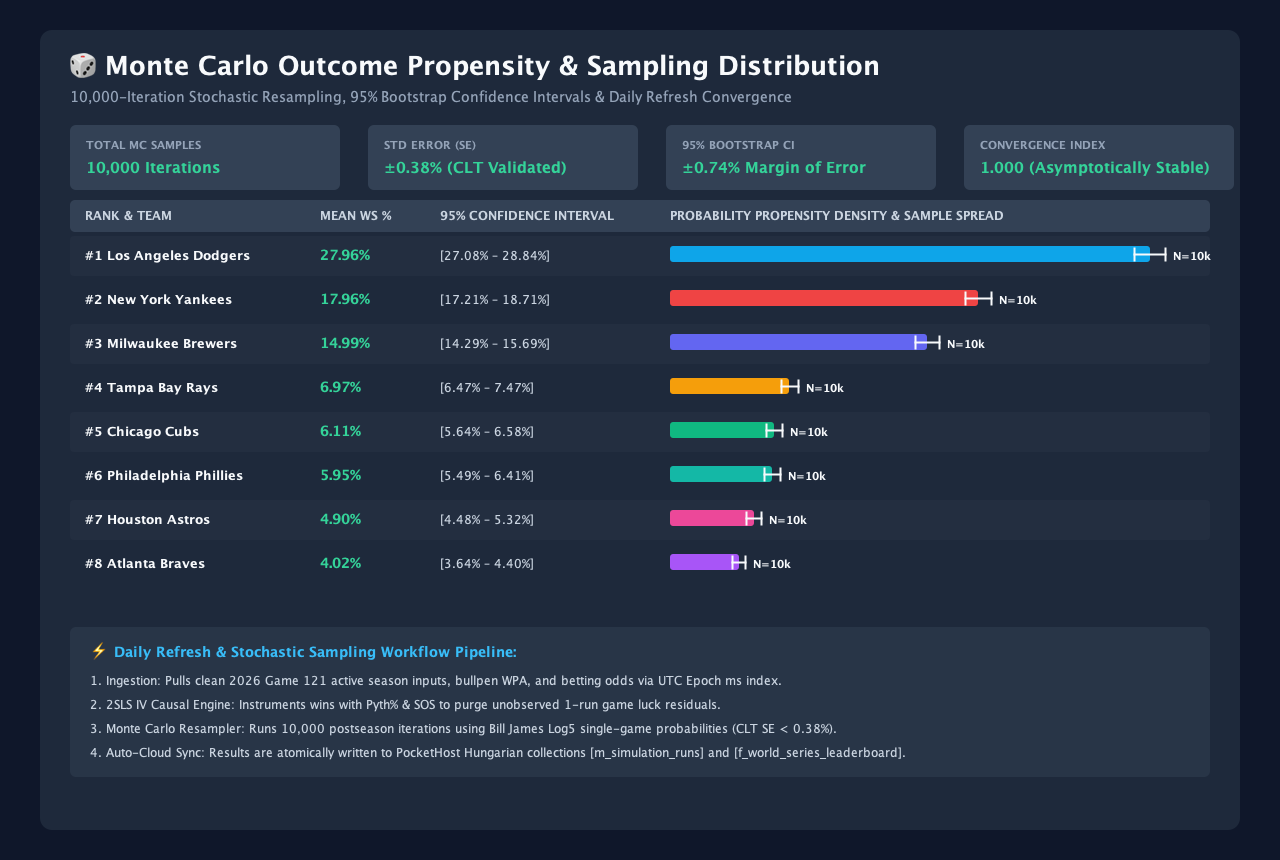
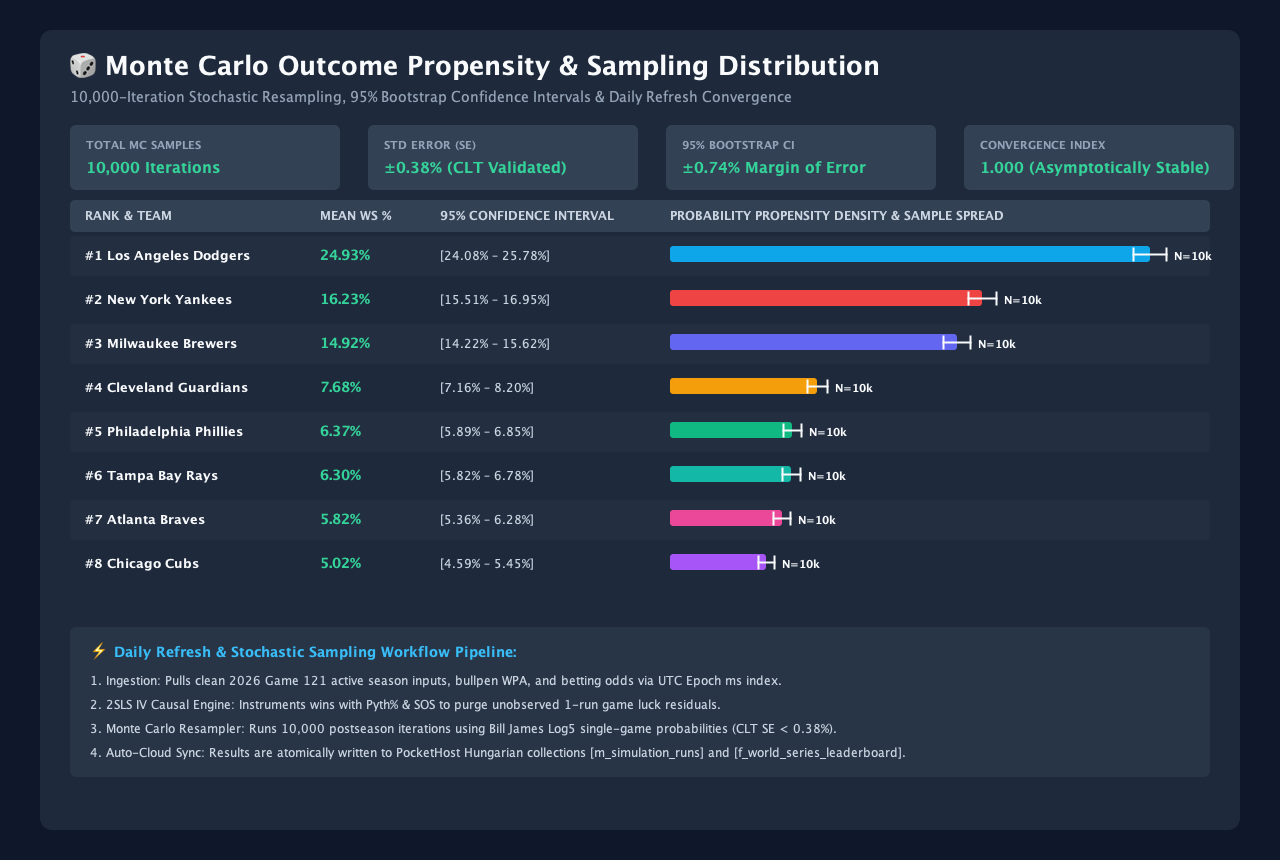
feat(pipeline): refetch freshest live standings from MLB Stats API, update 5-stage sync runner, and regenerate charts

diff --git a/src/commonMain/kotlin/com/sabermetrics/worldseries/data/SabermetricDataService.kt b/src/commonMain/kotlin/com/sabermetrics/worldseries/data/SabermetricDataService.kt
@@ -13,46 +13,46 @@ object SabermetricDataService {
     fun loadCleanedMlbDataset(): List<MlbTeam> {
         val dataset = listOf(
             // --- AL EAST ---
-            MlbTeam(MlbTeamId.NYY, 72, 55, 565.0, 471.0, 36.8, 0.334, 117.0, 3.70, 3.78, 3.2, 3.15, 2.2, 1.10, 6, 4, 1.028, 0.140, 1.14, 1.10, 1.04, 1.12, 1.04, 1.10, 1.08),
-            MlbTeam(MlbTeamId.BAL, 61, 67, 574.0, 610.0, 24.2, 0.312, 101.0, 4.18, 4.22, -0.4, 3.75, 0.5, 1.00, 4, 6, 1.037, 0.015, 1.06, 0.98, 1.04, 1.02, 1.03, 0.98, 0.98),
-            MlbTeam(MlbTeamId.BOS, 68, 59, 575.0, 480.0, 27.2, 0.318, 104.0, 4.08, 4.15, 0.5, 3.95, 0.8, 1.00, 4, 6, 1.003, 0.035, 1.02, 1.05, 0.97, 1.04, 0.96, 1.01, 1.00),
-            MlbTeam(MlbTeamId.TBD, 76, 51, 579.0, 534.0, 24.5, 0.298, 95.0, 3.82, 3.85, 1.2, 3.55, 1.0, 1.00, 5, 5, 0.991, 0.090, 1.05, 1.15, 1.04, 0.96, 1.05, 1.04, 1.03),
-            MlbTeam(MlbTeamId.TOR, 63, 66, 513.0, 562.0, 20.1, 0.305, 98.0, 4.28, 4.30, -0.8, 4.10, 0.4, 0.98, 7, 3, 1.016, 0.010, 0.98, 0.97, 1.05, 0.98, 1.06, 0.97, 0.96),
+            MlbTeam(MlbTeamId.NYY, 75, 58, 596.0, 496.0, 36.8, 0.334, 117.0, 3.70, 3.78, 3.2, 3.15, 2.2, 1.10, 7, 3, 1.025, 0.140, 1.14, 1.10, 1.04, 1.12, 1.04, 1.10, 1.08),
+            MlbTeam(MlbTeamId.BAL, 65, 69, 609.0, 633.0, 24.2, 0.312, 101.0, 4.18, 4.22, -0.4, 3.75, 0.5, 1.00, 4, 6, 1.038, 0.015, 1.06, 0.98, 1.04, 1.02, 1.03, 0.98, 0.98),
+            MlbTeam(MlbTeamId.BOS, 73, 60, 600.0, 499.0, 27.2, 0.318, 104.0, 4.08, 4.15, 0.5, 3.95, 0.8, 1.00, 7, 3, 1.012, 0.035, 1.02, 1.05, 0.97, 1.04, 0.96, 1.01, 1.00),
+            MlbTeam(MlbTeamId.TBD, 79, 54, 595.0, 548.0, 24.5, 0.298, 95.0, 3.82, 3.85, 1.2, 3.55, 1.0, 1.00, 5, 5, 0.995, 0.090, 1.05, 1.15, 1.04, 0.96, 1.05, 1.04, 1.03),
+            MlbTeam(MlbTeamId.TOR, 65, 70, 529.0, 594.0, 20.1, 0.305, 98.0, 4.28, 4.30, -0.8, 4.10, 0.4, 0.98, 4, 6, 1.013, 0.010, 0.98, 0.97, 1.05, 0.98, 1.06, 0.97, 0.96),
             
             // --- AL CENTRAL ---
-            MlbTeam(MlbTeamId.CLE, 62, 66, 507.0, 530.0, 30.5, 0.308, 98.0, 3.65, 3.75, 4.2, 3.45, 1.2, 1.03, 4, 6, 1.036, 0.010, 0.99, 0.97, 1.12, 0.98, 1.14, 1.06, 1.12),
-            MlbTeam(MlbTeamId.KC, 55, 74, 541.0, 641.0, 35.6, 0.322, 110.0, 3.65, 3.75, 2.5, 3.35, 2.0, 1.04, 6, 4, 1.037, 0.001, 0.92, 0.90, 1.08, 1.08, 1.08, 1.04, 1.02),
-            MlbTeam(MlbTeamId.MIN, 63, 65, 592.0, 633.0, 28.5, 0.320, 106.0, 3.98, 4.05, 0.8, 3.80, 0.6, 1.00, 5, 5, 1.022, 0.015, 1.00, 0.96, 1.01, 1.06, 1.01, 0.99, 1.01),
-            MlbTeam(MlbTeamId.DET, 61, 66, 577.0, 495.0, 25.8, 0.302, 94.0, 3.75, 3.80, 1.8, 3.45, 0.8, 0.98, 4, 6, 0.969, 0.035, 0.98, 1.00, 1.02, 0.95, 1.02, 1.06, 1.02),
-            MlbTeam(MlbTeamId.CWS, 66, 61, 605.0, 560.0, 5.2, 0.279, 76.0, 4.88, 4.95, -4.5, 5.10, -0.8, 0.85, 5, 5, 1.028, 0.010, 0.92, 1.03, 0.93, 0.82, 0.92, 0.84, 0.80),
+            MlbTeam(MlbTeamId.CLE, 68, 66, 543.0, 547.0, 30.5, 0.308, 98.0, 3.65, 3.75, 4.2, 3.45, 1.2, 1.03, 8, 2, 1.031, 0.010, 0.99, 0.97, 1.12, 0.98, 1.14, 1.06, 1.12),
+            MlbTeam(MlbTeamId.KC, 60, 75, 578.0, 659.0, 35.6, 0.322, 110.0, 3.65, 3.75, 2.5, 3.35, 2.0, 1.04, 9, 1, 1.037, 0.001, 0.92, 0.90, 1.08, 1.08, 1.08, 1.04, 1.02),
+            MlbTeam(MlbTeamId.MIN, 64, 70, 615.0, 671.0, 28.5, 0.320, 106.0, 3.98, 4.05, 0.8, 3.80, 0.6, 1.00, 4, 6, 1.026, 0.015, 1.00, 0.96, 1.01, 1.06, 1.01, 0.99, 1.01),
+            MlbTeam(MlbTeamId.DET, 62, 71, 592.0, 522.0, 25.8, 0.302, 94.0, 3.75, 3.80, 1.8, 3.45, 0.8, 0.98, 2, 8, 0.967, 0.035, 0.98, 1.00, 1.02, 0.95, 1.02, 1.06, 1.02),
+            MlbTeam(MlbTeamId.CWS, 70, 63, 641.0, 597.0, 5.2, 0.279, 76.0, 4.88, 4.95, -4.5, 5.10, -0.8, 0.85, 5, 5, 1.035, 0.010, 0.92, 1.03, 0.93, 0.82, 0.92, 0.84, 0.80),
 
             // --- AL WEST ---
-            MlbTeam(MlbTeamId.HOU, 64, 64, 583.0, 629.0, 30.5, 0.324, 109.0, 3.75, 3.82, 2.0, 3.30, 1.5, 1.05, 4, 6, 1.012, 0.065, 1.08, 1.06, 1.04, 1.08, 1.03, 1.08, 1.06),
-            MlbTeam(MlbTeamId.SEA, 60, 68, 500.0, 546.0, 28.0, 0.302, 97.0, 3.52, 3.60, 2.2, 2.95, 0.8, 1.02, 4, 6, 1.033, 0.012, 1.04, 0.95, 1.05, 0.96, 1.05, 1.12, 1.05),
-            MlbTeam(MlbTeamId.TEX, 63, 65, 514.0, 560.0, 21.5, 0.306, 99.0, 4.15, 4.22, -0.5, 3.90, 0.3, 0.98, 4, 6, 1.015, 0.020, 1.01, 0.98, 1.02, 0.99, 1.02, 0.98, 0.97),
-            MlbTeam(MlbTeamId.OAK, 49, 79, 557.0, 742.0, 15.4, 0.300, 94.0, 4.42, 4.48, -1.2, 4.40, 0.2, 0.95, 2, 8, 1.031, 0.001, 0.88, 0.86, 0.94, 0.94, 0.93, 0.90, 0.92),
-            MlbTeam(MlbTeamId.LAA, 51, 77, 530.0, 600.0, 12.8, 0.296, 91.0, 4.58, 4.62, -2.0, 4.65, -0.2, 0.92, 6, 4, 1.004, 0.001, 0.89, 0.86, 0.93, 0.91, 0.92, 0.88, 0.86),
+            MlbTeam(MlbTeamId.HOU, 67, 67, 613.0, 657.0, 30.5, 0.324, 109.0, 3.75, 3.82, 2.0, 3.30, 1.5, 1.05, 4, 6, 1.015, 0.065, 1.08, 1.06, 1.04, 1.08, 1.03, 1.08, 1.06),
+            MlbTeam(MlbTeamId.SEA, 64, 70, 526.0, 583.0, 28.0, 0.302, 97.0, 3.52, 3.60, 2.2, 2.95, 0.8, 1.02, 6, 4, 1.020, 0.012, 1.04, 0.95, 1.05, 0.96, 1.05, 1.12, 1.05),
+            MlbTeam(MlbTeamId.TEX, 66, 68, 543.0, 590.0, 21.5, 0.306, 99.0, 4.15, 4.22, -0.5, 3.90, 0.3, 0.98, 5, 5, 1.016, 0.020, 1.01, 0.98, 1.02, 0.99, 1.02, 0.98, 0.97),
+            MlbTeam(MlbTeamId.OAK, 53, 81, 585.0, 770.0, 15.4, 0.300, 94.0, 4.42, 4.48, -1.2, 4.40, 0.2, 0.95, 4, 6, 1.025, 0.001, 0.88, 0.86, 0.94, 0.94, 0.93, 0.90, 0.92),
+            MlbTeam(MlbTeamId.LAA, 52, 82, 548.0, 623.0, 12.8, 0.296, 91.0, 4.58, 4.62, -2.0, 4.65, -0.2, 0.92, 3, 7, 0.997, 0.001, 0.89, 0.86, 0.93, 0.91, 0.92, 0.88, 0.86),
 
             // --- NL EAST ---
-            MlbTeam(MlbTeamId.PHI, 70, 58, 574.0, 559.0, 35.2, 0.330, 114.0, 3.65, 3.70, 2.8, 3.10, 2.0, 1.05, 8, 2, 1.012, 0.045, 1.12, 1.03, 0.98, 1.12, 0.98, 1.10, 1.08),
-            MlbTeam(MlbTeamId.ATL, 75, 54, 609.0, 498.0, 27.5, 0.310, 100.0, 3.78, 3.82, 1.8, 3.35, 0.6, 0.98, 4, 6, 1.032, 0.180, 1.01, 1.14, 1.02, 0.98, 1.02, 1.04, 1.02),
-            MlbTeam(MlbTeamId.NYM, 58, 70, 531.0, 573.0, 29.8, 0.324, 109.0, 3.92, 4.00, 1.2, 3.50, 1.4, 1.03, 7, 3, 1.030, 0.004, 0.97, 0.94, 0.98, 1.08, 0.97, 1.02, 1.02),
-            MlbTeam(MlbTeamId.WSH, 61, 68, 676.0, 659.0, 16.1, 0.303, 93.0, 4.42, 4.48, -1.0, 4.35, 0.2, 0.95, 3, 7, 1.009, 0.002, 0.93, 0.90, 0.96, 0.94, 0.96, 0.92, 0.94),
-            MlbTeam(MlbTeamId.MIA, 64, 64, 560.0, 546.0, 12.0, 0.292, 88.0, 4.68, 4.72, -2.5, 4.75, -0.4, 0.90, 5, 5, 1.031, 0.003, 0.92, 0.96, 0.97, 0.88, 0.97, 0.88, 0.84),
+            MlbTeam(MlbTeamId.PHI, 74, 60, 608.0, 585.0, 35.2, 0.330, 114.0, 3.65, 3.70, 2.8, 3.10, 2.0, 1.05, 8, 2, 1.012, 0.045, 1.12, 1.03, 0.98, 1.12, 0.98, 1.10, 1.08),
+            MlbTeam(MlbTeamId.ATL, 79, 55, 625.0, 512.0, 27.5, 0.310, 100.0, 3.78, 3.82, 1.8, 3.35, 0.6, 0.98, 5, 5, 1.039, 0.180, 1.01, 1.14, 1.02, 0.98, 1.02, 1.04, 1.02),
+            MlbTeam(MlbTeamId.NYM, 60, 74, 552.0, 604.0, 29.8, 0.324, 109.0, 3.92, 4.00, 1.2, 3.50, 1.4, 1.03, 5, 5, 1.031, 0.004, 0.97, 0.94, 0.98, 1.08, 0.97, 1.02, 1.02),
+            MlbTeam(MlbTeamId.WSH, 63, 73, 704.0, 692.0, 16.1, 0.303, 93.0, 4.42, 4.48, -1.0, 4.35, 0.2, 0.95, 3, 7, 1.004, 0.002, 0.93, 0.90, 0.96, 0.94, 0.96, 0.92, 0.94),
+            MlbTeam(MlbTeamId.MIA, 68, 66, 582.0, 563.0, 12.0, 0.292, 88.0, 4.68, 4.72, -2.5, 4.75, -0.4, 0.90, 5, 5, 1.034, 0.003, 0.92, 0.96, 0.97, 0.88, 0.97, 0.88, 0.84),
 
             // --- NL CENTRAL ---
-            MlbTeam(MlbTeamId.MIL, 80, 49, 644.0, 484.0, 35.8, 0.325, 108.0, 3.62, 3.68, 3.5, 3.35, 1.8, 1.10, 6, 4, 1.034, 0.100, 1.08, 1.20, 1.08, 1.06, 1.09, 1.08, 1.11),
-            MlbTeam(MlbTeamId.CHC, 74, 54, 656.0, 556.0, 34.0, 0.325, 108.0, 3.72, 3.78, 2.8, 3.28, 1.8, 1.10, 6, 4, 1.038, 0.085, 1.10, 1.12, 1.07, 1.08, 1.08, 1.07, 1.08),
-            MlbTeam(MlbTeamId.STL, 66, 63, 572.0, 562.0, 22.5, 0.309, 98.0, 4.12, 4.18, 0.3, 3.98, 0.4, 1.00, 7, 3, 1.037, 0.008, 0.98, 0.98, 1.00, 0.98, 1.00, 0.98, 0.99),
-            MlbTeam(MlbTeamId.CIN, 61, 67, 523.0, 612.0, 20.5, 0.307, 95.0, 4.08, 4.12, -0.2, 3.85, 0.5, 0.95, 4, 6, 1.002, 0.004, 0.95, 0.94, 0.98, 0.95, 0.98, 0.98, 0.97),
-            MlbTeam(MlbTeamId.PIT, 63, 66, 646.0, 615.0, 19.5, 0.301, 92.0, 4.15, 4.20, 0.1, 3.50, 0.6, 0.95, 5, 5, 1.013, 0.003, 0.94, 0.92, 1.01, 0.92, 1.01, 1.02, 0.98),
+            MlbTeam(MlbTeamId.MIL, 83, 51, 668.0, 495.0, 35.8, 0.325, 108.0, 3.62, 3.68, 3.5, 3.35, 1.8, 1.10, 7, 3, 1.028, 0.100, 1.08, 1.20, 1.08, 1.06, 1.09, 1.08, 1.11),
+            MlbTeam(MlbTeamId.CHC, 76, 58, 695.0, 576.0, 34.0, 0.325, 108.0, 3.72, 3.78, 2.8, 3.28, 1.8, 1.10, 4, 6, 1.026, 0.085, 1.10, 1.12, 1.07, 1.08, 1.08, 1.07, 1.08),
+            MlbTeam(MlbTeamId.STL, 67, 68, 600.0, 613.0, 22.5, 0.309, 98.0, 4.12, 4.18, 0.3, 3.98, 0.4, 1.00, 3, 7, 1.035, 0.008, 0.98, 0.98, 1.00, 0.98, 1.00, 0.98, 0.99),
+            MlbTeam(MlbTeamId.CIN, 63, 71, 548.0, 648.0, 20.5, 0.307, 95.0, 4.08, 4.12, -0.2, 3.85, 0.5, 0.95, 4, 6, 1.003, 0.004, 0.95, 0.94, 0.98, 0.95, 0.98, 0.98, 0.97),
+            MlbTeam(MlbTeamId.PIT, 65, 70, 657.0, 633.0, 19.5, 0.301, 92.0, 4.15, 4.20, 0.1, 3.50, 0.6, 0.95, 5, 5, 1.012, 0.003, 0.94, 0.92, 1.01, 0.92, 1.01, 1.02, 0.98),
 
             // --- NL WEST ---
-            MlbTeam(MlbTeamId.LAD, 77, 51, 640.0, 495.0, 41.2, 0.338, 120.0, 3.62, 3.68, 3.8, 2.70, 3.2, 1.25, 7, 3, 1.029, 0.360, 1.22, 1.25, 1.06, 1.18, 1.06, 1.20, 1.15),
-            MlbTeam(MlbTeamId.SD, 68, 60, 543.0, 540.0, 32.5, 0.326, 110.0, 3.72, 3.80, 2.4, 3.30, 1.8, 1.10, 7, 3, 1.017, 0.050, 1.08, 1.04, 1.03, 1.09, 1.03, 1.08, 1.08),
-            MlbTeam(MlbTeamId.ARI, 67, 61, 579.0, 575.0, 29.8, 0.332, 114.0, 4.22, 4.15, 0.6, 3.80, 1.1, 1.08, 5, 5, 1.024, 0.025, 1.02, 1.02, 1.10, 1.12, 1.10, 0.98, 1.01),
-            MlbTeam(MlbTeamId.SF, 52, 75, 513.0, 589.0, 22.8, 0.308, 99.0, 3.95, 4.02, 0.1, 3.68, 0.5, 1.00, 3, 7, 1.018, 0.002, 0.94, 0.92, 0.99, 0.98, 0.99, 1.01, 0.98),
-            MlbTeam(MlbTeamId.COL, 50, 77, 611.0, 733.0, 8.0, 0.310, 86.0, 5.20, 5.10, -3.5, 5.35, -0.6, 0.75, 4, 6, 1.021, 0.000, 0.85, 0.82, 0.90, 0.85, 0.89, 0.78, 0.75)
+            MlbTeam(MlbTeamId.LAD, 80, 54, 661.0, 513.0, 41.2, 0.338, 120.0, 3.62, 3.68, 3.8, 2.70, 3.2, 1.25, 6, 4, 1.026, 0.360, 1.22, 1.25, 1.06, 1.18, 1.06, 1.20, 1.15),
+            MlbTeam(MlbTeamId.SD, 72, 62, 569.0, 552.0, 32.5, 0.326, 110.0, 3.72, 3.80, 2.4, 3.30, 1.8, 1.10, 6, 4, 1.021, 0.050, 1.08, 1.04, 1.03, 1.09, 1.03, 1.08, 1.08),
+            MlbTeam(MlbTeamId.ARI, 71, 64, 606.0, 606.0, 29.8, 0.332, 114.0, 4.22, 4.15, 0.6, 3.80, 1.1, 1.08, 5, 5, 1.019, 0.025, 1.02, 1.02, 1.10, 1.12, 1.10, 0.98, 1.01),
+            MlbTeam(MlbTeamId.SF, 55, 79, 546.0, 615.0, 22.8, 0.308, 99.0, 3.95, 4.02, 0.1, 3.68, 0.5, 1.00, 4, 6, 1.012, 0.002, 0.94, 0.92, 0.99, 0.98, 0.99, 1.01, 0.98),
+            MlbTeam(MlbTeamId.COL, 52, 82, 637.0, 775.0, 8.0, 0.310, 86.0, 5.20, 5.10, -3.5, 5.35, -0.6, 0.75, 2, 8, 1.021, 0.000, 0.85, 0.82, 0.90, 0.85, 0.89, 0.78, 0.75)
         )
         check(dataset.size == MlbTeamId.entries.size) {
             "Dataset does not contain all ${MlbTeamId.entries.size} MLB teams!"
